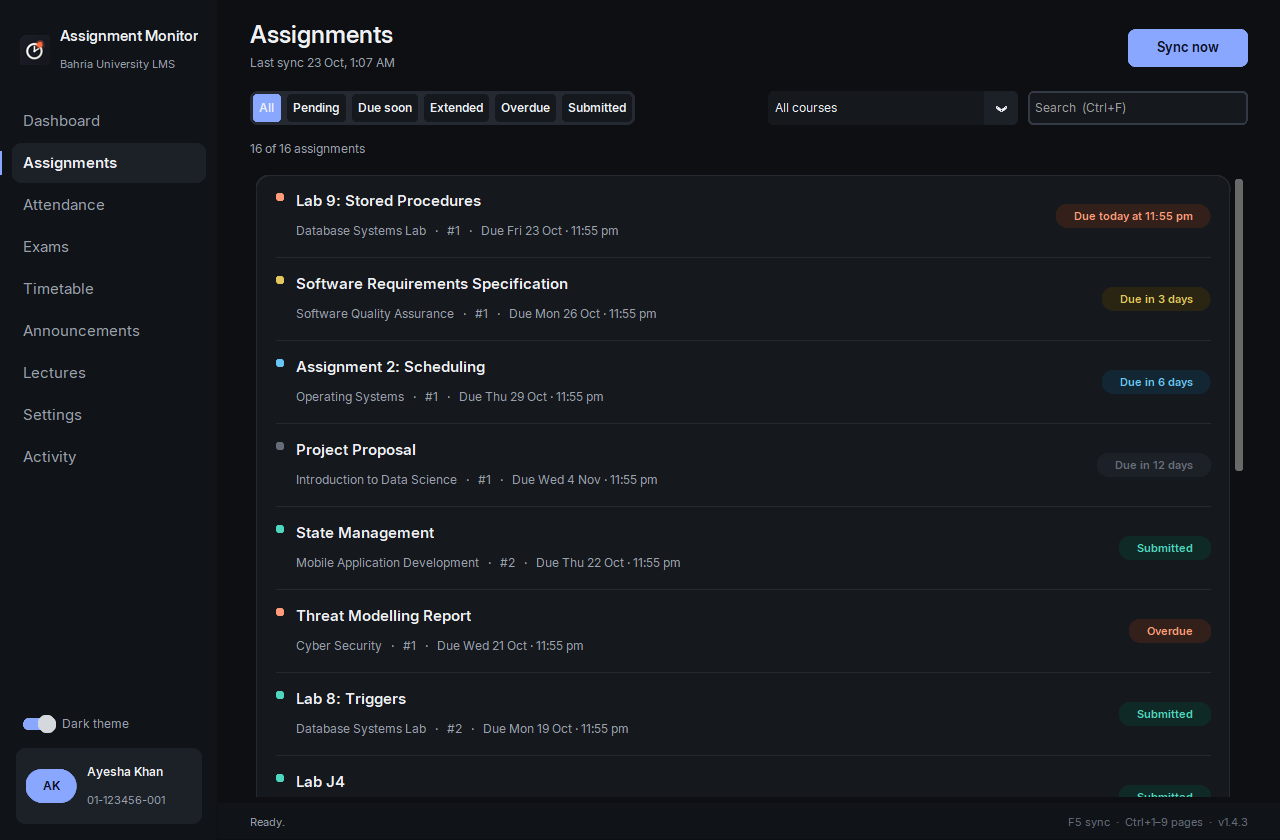
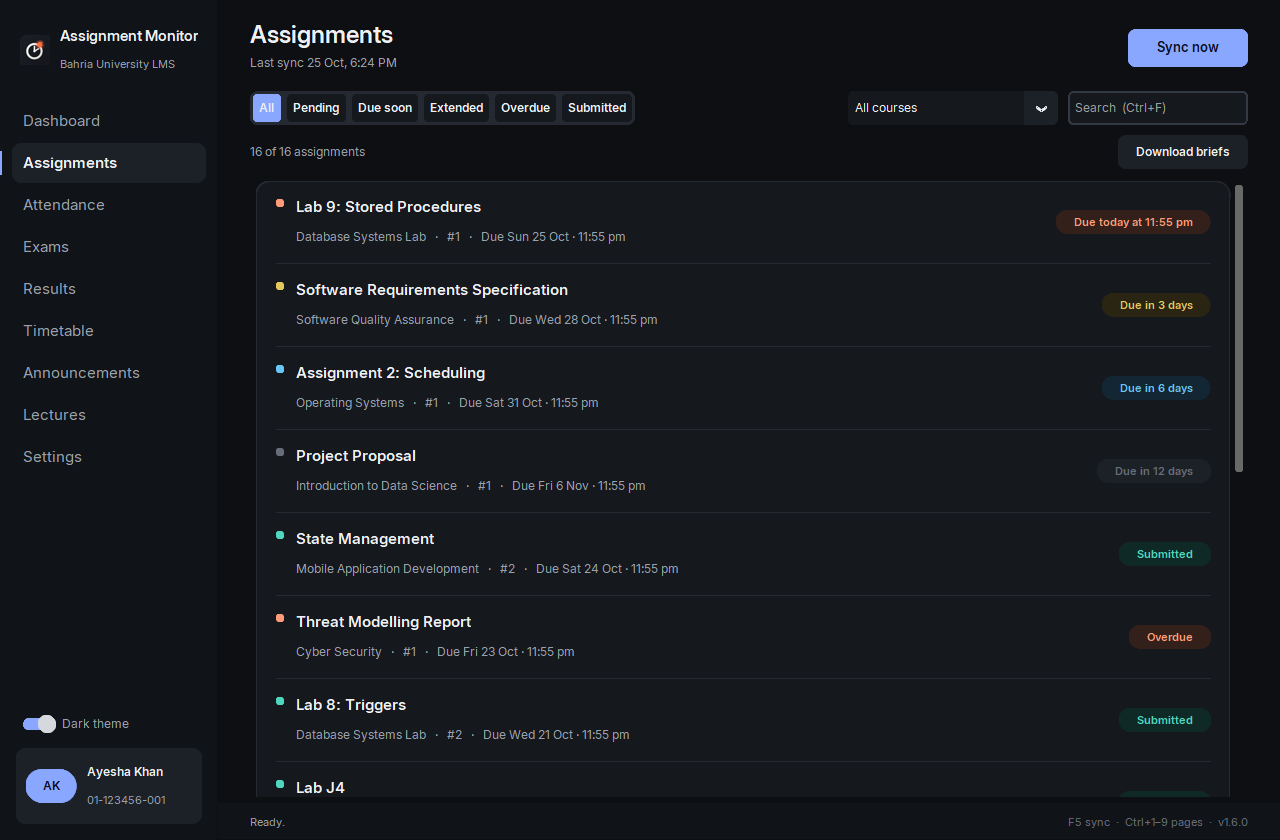
Website: gallery regenerated from demo data on 1.6.0 (Results in the sidebar, v1.6.0 in the status bar) with a new Results screenshot in both themes; FAQ answer on GPA and CGPA; screenshot cache-bust 144

diff --git a/website/src/data/faq.js b/website/src/data/faq.js
@@ -11,6 +11,7 @@ export const FAQ = [
   { q: "Which email accounts work?", a: "Any mailbox with SMTP: Gmail, Outlook, the university's Microsoft 365 account, Yahoo, iCloud or your own server. The app sends from your mailbox to itself using an app password, which is stored encrypted on your PC. The Advanced button sets the server by hand when the guess is wrong." },
   { q: "Does my PC need to be on at 7 PM?", a: "On or asleep. The 7 PM check wakes a sleeping or hibernating laptop, runs on battery, and if the PC was shut down it runs as soon as you are back, plus a catch-up two minutes after you sign in. The hourly reminder never wakes the PC; it only fires while something is due that day. For alerts while the PC is fully off, turn on cloud checks." },
   { q: "Can it alert me while the PC is off?", a: "Yes, with cloud checks. In Settings press Set up under Cloud checks, read what it will do, and sign in to GitHub with the one-time code shown. The app creates a private repository in your own GitHub account, stores your login and channel keys there as encrypted secrets, and installs a workflow that runs the same check each morning and evening (07:43 and 18:37) on GitHub's machines and alerts your phone and inbox. It is free (a check uses two or three of GitHub's 2,000 free minutes a month), nothing passes through a server of ours, and turning it off removes the secrets and the workflow. Your PC keeps its desktop and voice alerts and leaves phone and email to the cloud, so nothing arrives twice. The Cloud page walks through every screen." },
+  { q: "Does it show my GPA and CGPA?", a: "Yes. The Results page reads the CMS Provisional Result page: every semester's grades with the GPA and CGPA worked out the way the portal does, one semester at a time. For the running semester you pick the grade you expect in each course and see the projected GPA and CGPA, a row of same-grade scenarios, and the semester GPA a target CGPA needs, or a plain \"not reachable\". On a past semester, Try other grades shows how a different grade would have moved the CGPA. Nothing is saved, and the moment a result is posted you get a notification." },
   { q: "How do I uninstall?", a: "Windows Settings → Apps → Assignment Monitor → Uninstall. It closes the app, removes the background tasks and the Startup entry, offers to turn off cloud checks if they are on, deletes the program, and asks whether to delete your saved sign-in and cached data too." },
   { q: "Installer or portable zip?", a: "The installer is the easy path: Start Menu and Desktop icons, in-app updates, clean uninstall. The zip is the same program without an installer; unzip it anywhere and run AssignmentMonitor.exe. Both keep their data in your local app-data folder." },
   { q: "Where is my data kept?", a: "In %LOCALAPPDATA%\\Assignment Monitor: your encrypted sign-in and channel keys, preferences, the cached assignments, attendance, exam plan, announcements, file lists and timetable, a log and the browser profile. The optional calendar file lives in Documents. Nothing is stored anywhere else." },

diff --git a/website/src/data/content.js b/website/src/data/content.js
@@ -60,13 +60,14 @@ export const STEPS = [
   { title: "Let it run", text: "Leave \"Check automatically\" ticked. From then on it checks at 7 PM, after you sign in to Windows, and hourly on due days." },
 ];
 
-export const SHOT_V = "143";
+export const SHOT_V = "144";
 export const shot = (id, theme) => `/assets/shot-${id}-${theme}.png?v=${SHOT_V}`;
 
 export const SCREENS = [
   { id: "dashboard", label: "Dashboard", caption: "Dashboard: next deadline, counters, attention list, course progress." },
   { id: "attendance", label: "Attendance", caption: "Attendance: every course's hours, the margin to the 75% rule, and the class-by-class record." },
   { id: "exams", label: "Exams", caption: "Exams: the seating plan with room, row and seat, and a countdown to each paper." },
+  { id: "results", label: "Results", caption: "Results: every semester's grades, GPA and CGPA, and the calculator: pick the grades you expect, set a target CGPA, try other grades in a past semester." },
   { id: "timetable", label: "Timetable", caption: "Timetable: the week as a clean grid, one row per day and a colour per course; save it as PNG, JPG or PDF." },
   { id: "lectures", label: "Lectures", caption: "Lectures: every course's notes by week; tick files and download them into course / week folders." },
   { id: "announcements", label: "Announcements", caption: "Announcements: every course's notices in one feed, newest first." },
